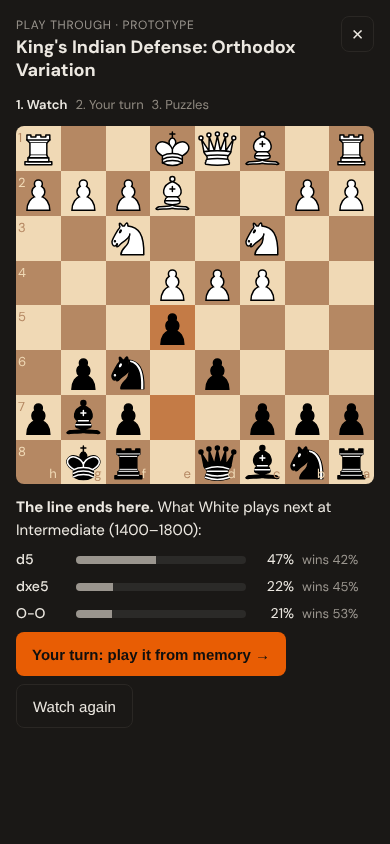
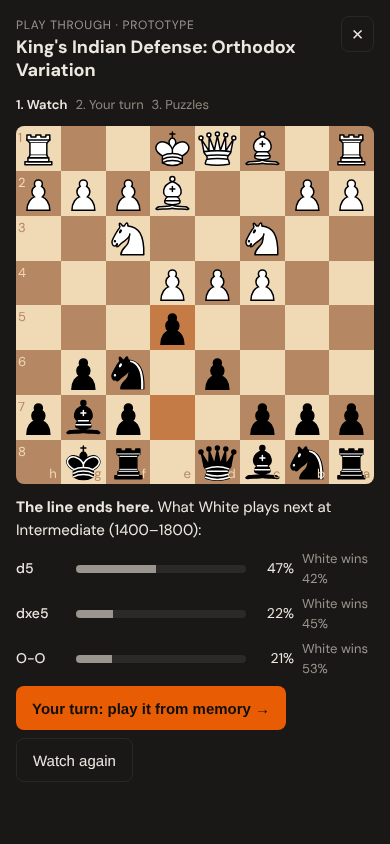
docs(experiment): night 10 Gate B document, plan and questions [exp]

Changed region(s): [[0.0308, 0.6469, 0.9538, 0.8626], [0.1846, 0.6469, 0.4, 0.7085], [0.0923, 0.8934, 0.3077, 0.9242]]

diff --git a/.github/experiment/gates/gate-b.md b/.github/experiment/gates/gate-b.md
@@ -1,0 +1,92 @@
+# Gate B — the play-through prototype
+
+Night 10 (2026-11-27). You said yes to board-first at Gate A. This is the
+clickable prototype. It is built in the real app on draft PR #252, so the
+Vercel preview runs it on your phone. **Please don't merge it**: Gate C will
+come back as separate, smaller PRs.
+
+## Try it (about 10 minutes)
+
+Open the preview from #252 on your phone. Add any of these paths, or put
+`?lab=playthrough` after any opening page you play yourself:
+
+- Italian Center Attack (White): `/opening/r1bqk2r%2Fpppp1ppp%2F2n2n2%2F2b5%2F2BpP3%2F2P2N2%2FPP3PPP%2FRNBQK2R%20w%20KQkq%20-%200%206?lab=playthrough`
+- Caro-Kann Advance (Black): `/opening/rnbqkbnr%2Fpp2pppp%2F2p5%2F3pP3%2F3P4%2F8%2FPPP2PPP%2FRNBQKBNR%20b%20KQkq%20-%200%203?lab=playthrough`
+- Najdorf (Black): `/opening/rnbqkb1r%2F1p2pppp%2Fp2p1n2%2F8%2F3NP3%2F2N5%2FPPP2PPP%2FR1BQKB1R%20w%20KQkq%20-%200%206?lab=playthrough`
+- King's Indian Orthodox (Black, no puzzles): `/opening/rnbq1rk1%2Fppp2pbp%2F3p1np1%2F4p3%2F2PPP3%2F2N2N2%2FPP2BPPP%2FR1BQK2R%20w%20KQ%20-%200%207?lab=playthrough`
+
+The level you saved on the site sets the band. Without one, it uses
+Intermediate (1400–1800).
+
+## The learner and the session
+
+The learner is someone who has landed on a line they want to play, has five
+minutes and a phone, and so far could only read a move list. The session has
+three steps (screenshots in `spikes/13-prototype/`):
+
+1. **Watch.** The line plays itself. It stops only where **your opponents** at
+   your level split. Each stop shows the top moves (share of all games, and how
+   often that side wins) and always the line's own move. The last stop is the
+   strongest: "what happens next". For example, in the King's Indian Orthodox
+   at 1400, 47% of White players push 7.d5 and win 42%, while 21% castle and
+   win 53%.
+2. **Your turn.** You play your side from memory, and the opponent answers by
+   the line. One miss gets "a3 is not this line"; a second names the move.
+3. **Puzzles.** You get three Lichess puzzles (public domain), rated ≤1600,
+   that you solve as your side. They come from real games in the same variation
+   with the same pawn structure and developed pieces. 516 lines have them, and
+   the rest end at step 2. Lichess is credited and linked.
+
+## What was tried and dropped tonight
+
+- **A generic pawn filter for puzzles.** It let sibling lines in. On the Center
+  Attack, 2 of the top 3 were slow c3/d3 games. A stricter rule (every pawn the
+  line moved is still there or further up its file) keeps the right 28 of 1,420.
+- **Puzzles on long tactical lines.** All 155 Frankenstein–Dracula puzzles
+  happen *inside* the 20-ply line, so they would quiz moves you just watched.
+  Those lines get none.
+- **The King's Indian gets thin puzzles.** Lichess has only 83 and 72 puzzles at
+  ≤1600 for the Orthodox and Fianchetto, mostly middlegame. A d4 learner often
+  ends at step 2.
+- **An independent critic** (Opus) found five problems in the first build, all
+  fixed before this document:
+  - shares were of the top six moves, not of all games (34% shown, 32% true);
+  - in 47% of puzzles you would solve for the *other* side;
+  - the line's own move could be missing from a pause (113 of 839);
+  - "wins" didn't say whose wins;
+  - on sub-variation pages, 7 of 18 puzzles came from a sibling line (for
+    example, Neo-Arkhangelsk puzzles where Black never played ...Nf6).
+
+  After the fixes, a fresh sample on sub-variation pages scored
+  **FIT_RESULT**.
+
+## What I'm still unsure of
+
+- **Why come back tomorrow?** That's the critic's first objection, and I agree
+  with it. The session is a good first visit, but nothing changes while you're
+  away. There are three answers, from cheapest to most effective:
+  - **(a) Next line.** After the end pause, offer the line that follows. 776 of
+    1,592 popular long lines end where a top-three move leads to another line
+    of the same grade.
+  - **(b) Fresh puzzles.** Serve different puzzles on each visit: the pool runs
+    up to 181 for the Two Knights.
+  - **(c) Come back to re-test.** In a few days the site asks you to play the
+    line from memory again. It's stored in your browser, with no account.
+
+  (c) is the only real reason to return, and it is the closest thing to a
+  trainer. #241's "no trainer" decision (2026-11-10) may rule it out.
+- **Short lines make short sessions.** The Caro-Kann Advance is three moves of
+  memory.
+- **Wins, not score.** "White wins 53%" leaves out draws. It is honest for
+  comparing moves at one stop, but it is not a verdict.
+
+## Questions
+
+1. **Does it feel like a study session on your phone?** Try two lines, one of
+   them a line you play. Yes means I plan Gate C as small PRs (the API route,
+   then the component behind its flag, then the puzzle file). No means: what
+   was missing? _Meanwhile: nights 11+ test (a) and (b) as spikes and take
+   nothing to production._
+2. **Is (c), a re-test in a few days with no account, inside the "no trainer"
+   decision?** _Default: no (c). Nights test (a) and (b), and I bring (c) back
+   only if you say it's allowed._

diff --git a/.github/experiment/plan.md b/.github/experiment/plan.md
@@ -1,30 +1,31 @@
 # Plan
 
-Phase: **Discover, by testing** (revised 2026-11-25). Gate A is a discussion the
-owner is offered once an idea has survived the tests that could have killed it
-(`operating.md`, The loop). Nights never idle while waiting on the owner.
+Phase: **Gate B, waiting on the owner's phone test** (Gate A passed 2026-11-26;
+prototype on draft PR #252, `gates/gate-b.md`). Previously: Discover, by testing (revised 2026-11-25). Gate A is a discussion the
+owner is offered once an ## Next
 
-## Next
+**Night 11 (Monday 01:00 UTC; Friday is the week's last night).** Night 10 built
+the Gate B prototype (`spikes/13`, PR #252, `feat/exp-play-through`) and wrote
+`gates/gate-b.md`. Nothing goes to production before the owner's Gate B answer.
 
-**Night 10 (Friday 01:00 UTC).** Night 9 (`journal.md`) installed a
-container-only Stockfish, killed the trap set (8 data-only, 17, 11), spiked
-Revision 1 for the first time (`spikes/10`) and added an addendum to
-`gates/gate-a.md`. Revision 1 is still the pick; Gate A still waits on the
-owner.
+1. **Owner replies first:** Gate B questions 6 and 7 in `questions.md`.
+2. **Return reason, spiked** (the critic's first objection): (a) "next line"
+   after the end pause (776 of 1,592 lines have one; `spikes/13/next.js`) and
+   (b) rotating puzzles from the pool. Spike both in the container on top of
+   `feat/exp-play-through`; push to #252 only if the owner has not started
+   testing (ask first), else keep local with screenshots.
+3. **Puzzle fit, residual:** pawns and minor pieces cannot separate lines that
+   differ only in where a developed piece went (Polerio 5...Na5 vs Fritz
+   5...Nd4 both leave b8). A cheap extra check: the piece the line's last
+   moves placed must be on its square or have moved on (not on a square the
+   sibling uses). Measure on a sample before changing the file.
+4. **Gate C plan** once Gate B says yes: three small PRs (route, component
+   behind its flag, puzzle file + its generator under `tools/`), each with tests.
+   The generator becomes a documented data step (the owner allowed the CC0
+   file); it must not live only in `spikes/`.
+5. Do not re-push #252 needlessly: every push builds a preview.
 
-1. **Owner replies first** (Gate A; question 5, engine output on the site).
-2. **The session, done on night 9** (`spikes/10`): watch → memory → three CC0
-   puzzles from the same variation, ~5–7 minutes. Next test: run it on two more
-   lines (one d4, e.g. a King's Indian; one obscure) to see whether the puzzles
-   still fit when the variation tag is broad or thin.
-3. **Idea 12 as a pause** failed on night 9 (40% coin tosses). Try "which of
-   these scores best for you?" at a pause instead, if it is cheap.
-4. **Puzzle fit, measured not eyeballed:** for a sample of variations, replay
-   each puzzle's game id? Not reachable (lichess.org refuses the cloud). Use
-   pawn signatures per line, as night 9 did for the Center Attack.
-5. **Return reason** is still the weakest part of the charter goal (idea 3): one
-   cheap test of what would change while a learner is away.
-6. Run limits retuned from night 9's measured ~4% (`questions.md`, Decided
+Decided
    2026-11-26): safety net ~180 main calls, no time floor; finish the Next items
    you can do tonight (item 2 is one).
 

diff --git a/.github/experiment/questions.md b/.github/experiment/questions.md
@@ -5,7 +5,14 @@ not answered by the next night. Answered ones move to **Decided** with the date.
 
 ## Open
 
-None open. Questions 1–5 were answered by the owner on 2026-11-26 (Decided).
+6. **Gate B: does the play-through feel like a study session on your phone?**
+   (`gates/gate-b.md`, draft PR #252's preview, `?lab=playthrough`). Try two
+   lines, one you play. _Meanwhile: nights test the return reasons (a) next
+   line and (b) fresh puzzles as spikes; nothing goes to production._
+
+7. **Is a re-test in a few days (local, no account) inside the 2026-11-10 "no
+   trainer" decision?** It is the only one of the three return reasons that
+   brings someone back. _Default: not built; (a) and (b) only._
 
 ## Decided
 
